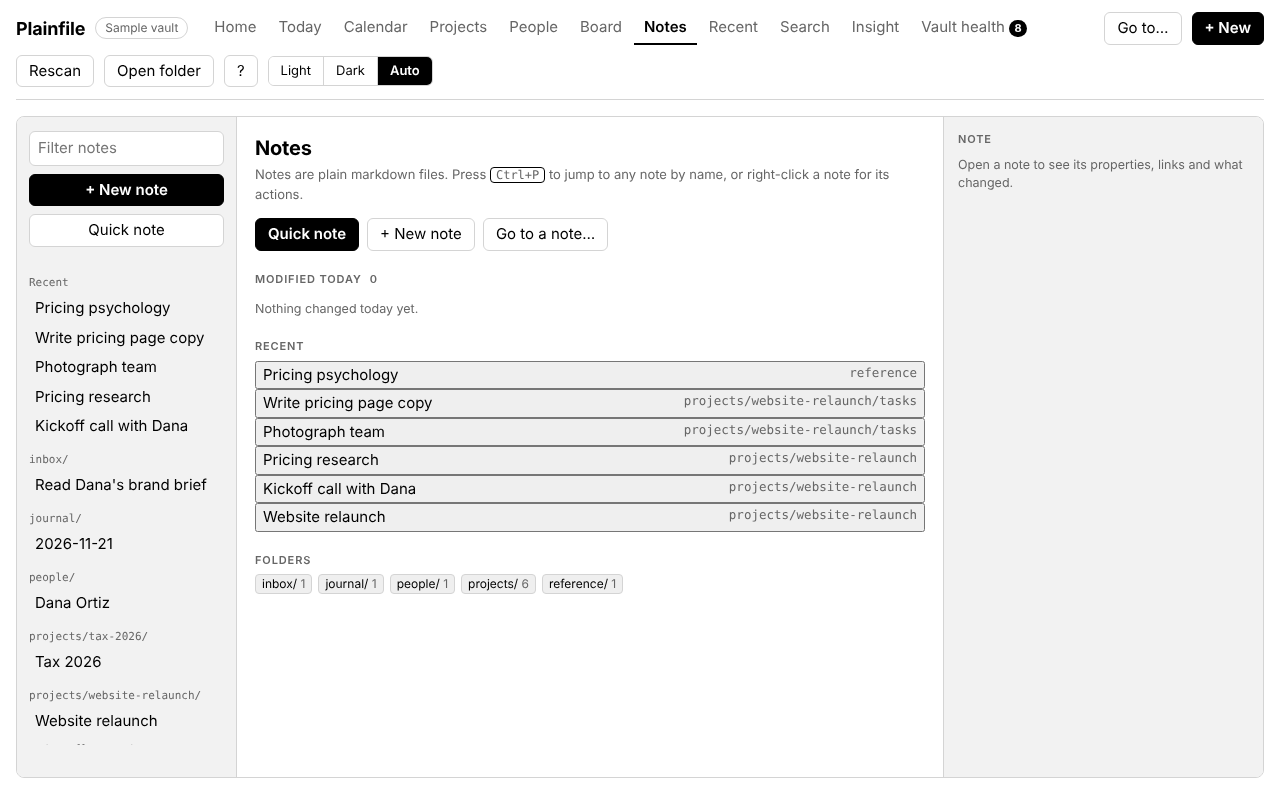
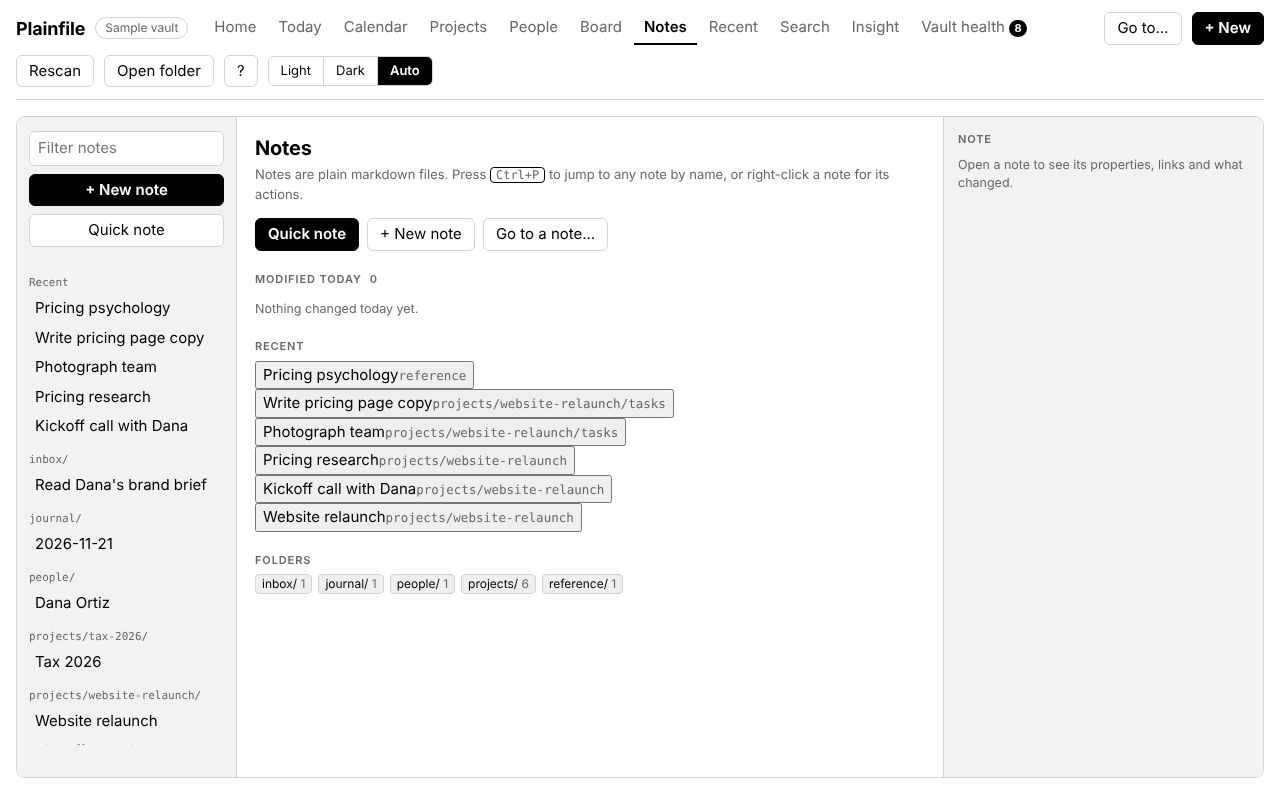
Add What is new by version in the footer, tidy unused code, document the approach (0.46.1)
Claude-Session: https://claude.ai/code/session_01R4FEdBw4QsP4joija6qyER

Changed region(s): [[0.3125, 0.4375, 0.7188, 0.6562]]

diff --git a/web/app.css b/web/app.css
@@ -459,8 +459,6 @@ progress:indeterminate { background: repeating-linear-gradient(90deg, var(--fg) 
 .pal-item span { opacity: 0.7; overflow: hidden; text-overflow: ellipsis; white-space: nowrap; max-width: 55%; }
 .pal-item[aria-selected='true'], .pal-item:hover { background: var(--fg); color: var(--bg); }
 .notes-home { max-width: 52rem; }
-.home-list li { margin: 0; }
-.home-list .note-quick { display: flex; justify-content: space-between; gap: 12px; width: 100%; }
 .note-quick { font-weight: 400; }
 kbd { border: 1px solid var(--fg); border-radius: 4px; padding: 0 5px; font: 12px var(--mono); }
 
@@ -623,7 +621,6 @@ kbd { border: 1px solid var(--fg); border-radius: 4px; padding: 0 5px; font: 12p
 .home-rows li { margin: 0; }
 .home-rows .note-quick { display: flex; justify-content: space-between; gap: 10px; width: 100%; }
 .home-log { margin-top: 8px; }
-.week { display: grid; grid-template-columns: repeat(7, 1fr); gap: 4px; align-items: end; height: 96px; margin: 0 0 10px; }
 .wday { display: flex; flex-direction: column; justify-content: flex-end; align-items: center; height: 100%; font-size: 11px; position: relative; }
 .wday i { display: block; width: 100%; background: var(--fg); border-radius: 3px 3px 0 0; min-height: 2px; margin-bottom: 2px; }
 .wday b { font-size: 12px; }
@@ -743,3 +740,6 @@ kbd { border: 1px solid var(--fg); border-radius: 4px; padding: 0 5px; font: 12p
 .cm-mermaid { display: block; margin: 6px 0 12px; padding: 10px; border: 1px solid var(--line); border-radius: 6px; overflow-x: auto; text-align: center; color: var(--mute); font-size: 13px; }
 .cm-mermaid svg { max-width: 100%; height: auto; }
 .cm-mermaid-err { text-align: left; font-family: var(--mono); }
+.changelog { max-width: 70ch; }
+.changelog h2:not(.title) { font-size: 16px; margin: 22px 0 4px; padding-top: 12px; border-top: 1px solid var(--line); }
+.changelog h3 { font-size: 12px; text-transform: uppercase; letter-spacing: 0.05em; color: var(--mute); margin: 10px 0 2px; }

diff --git a/web/project.ts b/web/project.ts
@@ -1,11 +1,10 @@
 import { fmtDate, localDateOf } from '../src/dates';
-import { dirname } from '../src/index';
-import { listProjects, projectDashboard } from '../src/projects';
+import { listProjects } from '../src/projects';
 import { portfolio } from '../src/hub';
 import * as hub from './hub';
 import { openTemplate } from './newmenu';
-import { render, justDone, state, today } from './store';
-import { logHtml, openTaskRow, row, toggleTask } from './tasks';
+import { render, state, today } from './store';
+import { openTaskRow, toggleTask } from './tasks';
 import { esc } from './util';
 
 /** The Projects screen: every project as a card, and for one project a dashboard of everything that belongs to it. */
@@ -70,10 +69,6 @@ function overview(): string {
     `<span class="pnum" aria-hidden="true">${p.number ?? '–'}</span><span class="ptitle">${esc(p.title)}</span><span class="pprev">${esc(p.preview) || '&nbsp;'}</span>` +
     `<span class="chips"><span class="chip">${p.openTasks} open task${p.openTasks === 1 ? '' : 's'}</span>${p.followups ? `<span class="chip">${p.followups} follow-up${p.followups === 1 ? '' : 's'}</span>` : ''}${p.active ? '' : '<span class="chip quiet">inactive</span>'}</span></button></li>`;
   return `${h}<ul class="pgrid">${all.map(card).join('')}</ul>`;
-}
-
-function section(title: string, count: number | string, body: string): string {
-  return `<section class="psec"><h3>${esc(title)} <span class="n">${count}</span></h3>${body}</section>`;
 }
 
 export function html(): string {

diff --git a/test/home.test.ts b/test/home.test.ts
@@ -1,5 +1,5 @@
 import { describe, expect, it } from 'vitest';
-import { daysSince, fileItem, finish, pickUp, reschedule, slipped, triage, undated, waitingOn, weekAhead } from '../src/home';
+import { daysSince, fileItem, finish, reschedule, slipped, triage, undated, waitingOn, weekAhead } from '../src/home';
 import { VaultIndex } from '../src/index';
 import { MemoryStorage } from '../src/memory-storage';
 
@@ -39,15 +39,6 @@ describe('Home helpers', () => {
     expect(undated(index).map((t) => t.item.title).sort()).toEqual(['A loose line', 'No date inline', 'Waiting thing']);
     expect(daysSince('2026-11-10', TODAY)).toBe(11);
     expect(daysSince(undefined, TODAY)).toBeUndefined();
-  });
-
-  it('pickUp lists recently changed notes and leaves out task notes', async () => {
-    const { index, store } = await setup();
-    store.external('projects/site/index.md', FILES['projects/site/index.md']! + '\nmore');
-    await index.scan();
-    const p = pickUp(index, 3).map((n) => n.path);
-    expect(p[0]).toBe('projects/site/index.md');
-    expect(p.some((x) => x.startsWith('tasks/'))).toBe(false);
   });
 
   it('fileItem changes only the project and tags, and nothing else in the note', async () => {

diff --git a/web/main.ts b/web/main.ts
@@ -4,6 +4,7 @@ import * as calendarScreen from './calendar';
 import * as cloudUi from './cloud';
 import * as explore from './explore';
 import * as guide from './guide';
+import * as changelogScreen from './changelog';
 import * as health from './health';
 import * as homeScreen from './home';
 import * as reviewScreen from './review';
@@ -116,7 +117,7 @@ function footer(): string {
   return (
     '<footer class="foot">' +
     `<span class="mono">Plainfile v${esc(__APP_VERSION__)}</span>` +
-    `<a href="${REPO}/blob/main/CHANGELOG.md" target="_blank" rel="noopener noreferrer">What is new</a>` +
+    '<button class="link" data-nav="changelog">What is new</button>' +
     `<a href="${REPO}" target="_blank" rel="noopener noreferrer">GitHub</a>` +
     (state.index ? '<button class="link" data-nav="guide">Cheat sheet</button>' : '') +
     '</footer>'
@@ -239,6 +240,9 @@ function shell(): string {
       break;
     case 'guide':
       h += guide.html();
+      break;
+    case 'changelog':
+      h += changelogScreen.html();
       break;
     case 'explore':
       h += explore.html();

diff --git a/web/store.ts b/web/store.ts
@@ -8,13 +8,13 @@ import { listProjects, type Project } from '../src/projects';
 import { findProject, parseQuickLine, type QuickLine } from '../src/quickline';
 import type { VaultStorage } from '../src/storage';
 import { loadTemplates, type Template } from '../src/templates';
-import { StaleError, type ChangeResult } from '../src/writeback';
+import { StaleError } from '../src/writeback';
 import { hasPermission, loadHandle, saveHandle } from './handle-store';
 import { browserCache } from './index-cache';
 
 export const SAMPLE_DAY = '2026-11-21';
 
-export type ScreenId = 'home' | 'review' | 'insight' | 'recent' | 'today' | 'calendar' | 'people' | 'projects' | 'board' | 'notes' | 'explore' | 'search' | 'health' | 'rename' | 'guide';
+export type ScreenId = 'home' | 'review' | 'insight' | 'recent' | 'today' | 'calendar' | 'people' | 'projects' | 'board' | 'notes' | 'explore' | 'search' | 'health' | 'rename' | 'guide' | 'changelog';
 export type TodayViewId = 'today' | 'upcoming' | 'inbox' | 'waiting' | 'all' | 'followups' | 'projects';
 
 export type Modal =

diff --git a/tests/e2e/changelog.spec.ts b/tests/e2e/changelog.spec.ts
@@ -1,0 +1,15 @@
+import { expect, test } from '@playwright/test';
+import { openVault } from './helpers';
+
+test('the footer opens What is new, by version without dates, and links to GitHub', async ({ page }) => {
+  await page.goto('/');
+  await openVault(page, { 'a.md': '# A\n' });
+  const foot = page.locator('.foot');
+  await expect(foot.getByRole('link', { name: 'GitHub' })).toHaveAttribute('target', '_blank');
+  await foot.getByRole('button', { name: 'What is new' }).click();
+  await expect(page.locator('.title')).toHaveText('What is new');
+  await expect(page.locator('.changelog h2, .changelog h1').nth(1)).toContainText(/^\d+\.\d+\.\d+$/);
+  expect(await page.locator('.changelog h2:not(.title), .changelog h1').allInnerTexts()).not.toContain(expect.stringMatching(/\d{4}-\d{2}-\d{2}/));
+  await expect(page.locator('.changelog a[href*="silverbullet"]')).toHaveAttribute('target', '_blank');
+  await expect(page.locator('.changelog a', { hasText: 'Full change log on GitHub' })).toHaveAttribute('target', '_blank');
+});

diff --git a/web/changelog.ts b/web/changelog.ts
@@ -1,0 +1,14 @@
+import { changelogByVersion } from '../src/changelog';
+import { toHtml } from '../src/render';
+
+const REPO = 'https://github.com/adambeltz2/Simple-Productivity';
+
+/** What is new: every version, newest first, without dates. The full file with dates is on GitHub. */
+export function html(): string {
+  return (
+    '<div class="home changelog"><h2 class="title">What is new</h2>' +
+    `<p class="meta">Plainfile v${__APP_VERSION__}. Changes by version. <a href="${REPO}/blob/main/CHANGELOG.md" target="_blank" rel="noopener noreferrer">Full change log on GitHub</a></p>` +
+    '<p class="small muted">Inspired by <a href="https://silverbullet.md/" target="_blank" rel="noopener noreferrer">SilverBullet</a> and <a href="https://obsidian.md/" target="_blank" rel="noopener noreferrer">Obsidian</a>, with a different approach: plain files, tasks and projects as first-class views, nothing to install.</p>' +
+    `<div class="prose">${toHtml(changelogByVersion(__CHANGELOG__))}</div></div>`
+  );
+}

diff --git a/test/changelog.test.ts b/test/changelog.test.ts
@@ -1,0 +1,19 @@
+import { readFileSync } from 'node:fs';
+import { describe, expect, it } from 'vitest';
+import { changelogByVersion } from '../src/changelog';
+
+describe('changelogByVersion', () => {
+  it('lists versions without dates and drops the introduction', () => {
+    const out = changelogByVersion('# Changelog\n\nIntro text.\n\n## [0.2.0] - 2026-11-22\n\n### Added\n- B\n\n## [0.1.0] - 2026-11-01\n- A\n');
+    expect(out).toBe('## 0.2.0\n\n### Added\n- B\n\n## 0.1.0\n- A\n');
+  });
+  it('leaves no date in the real change log', () => {
+    const out = changelogByVersion(readFileSync('CHANGELOG.md', 'utf8'));
+    expect(out).not.toMatch(/^## .*\d{4}-\d{2}-\d{2}/m);
+    expect(out.startsWith('## ')).toBe(true);
+  });
+  it('has an entry for the version being shipped', () => {
+    const v = JSON.parse(readFileSync('package.json', 'utf8')).version as string;
+    expect(changelogByVersion(readFileSync('CHANGELOG.md', 'utf8'))).toContain(`## ${v}\n`);
+  });
+});

diff --git a/src/home.ts b/src/home.ts
@@ -93,14 +93,6 @@ export function undated(index: VaultIndex): HubTask[] {
   return allTasks(index).filter((t) => t.status !== 'done' && !t.due);
 }
 
-/** (Home no longer shows this; the Recent screen lists every note.) Where you left off: the notes changed most recently, leaving out task notes and the generated inbox file. */
-export function pickUp(index: VaultIndex, limit = 5): Note[] {
-  return [...index.notes.values()]
-    .filter((n) => !isTaskNote(n))
-    .sort((a, b) => b.mtime - a.mtime || a.path.localeCompare(b.path))
-    .slice(0, limit);
-}
-
 /** File a note or task note: add it to a project and add tags. Only those two fields change. */
 export async function fileItem(storage: VaultStorage, index: VaultIndex, path: string, opts: { project?: string; tags?: string[] }): Promise<ChangeResult> {
   const stat = await storage.stat(path);

diff --git a/src/changelog.ts b/src/changelog.ts
@@ -1,0 +1,10 @@
+/**
+ * The change log as the app shows it: by version, newest first, with no dates. The file `CHANGELOG.md` keeps its
+ * dates for GitHub; this takes them out of the headings (`## [0.46.0] - 2026-11-22` becomes `## 0.46.0`) and
+ * drops the introduction, so the list reads as a history of versions.
+ */
+export function changelogByVersion(md: string): string {
+  const first = md.search(/^## \[/m);
+  const body = first < 0 ? md : md.slice(first);
+  return body.replace(/^## \[([^\]]+)\](?:[ \t]+-[ \t]+\d{4}-\d{2}-\d{2})?[ \t]*$/gm, '## $1');
+}

diff --git a/test/templates.test.ts b/test/templates.test.ts
@@ -135,7 +135,7 @@ describe('task files', () => {
   });
 
   it('read people from the frontmatter as @names, like an inline task', async () => {
-    const { store, index } = await setup({ 'tasks/a.md': '---\nstatus: todo\npeople: [Dana, "Sam Lee"]\ncreated: 2026-11-20\n---\n' });
+    const { index } = await setup({ 'tasks/a.md': '---\nstatus: todo\npeople: [Dana, "Sam Lee"]\ncreated: 2026-11-20\n---\n' });
     expect(index.tasks()[0]).toMatchObject({ who: ['@dana', '@sam-lee'], created: '2026-11-20' });
   });
 });

diff --git a/web/globals.d.ts b/web/globals.d.ts
@@ -2,6 +2,8 @@
 declare const __SAMPLE_VAULT__: Record<string, string>;
 /** The version in package.json, injected at build time. */
 declare const __APP_VERSION__: string;
+/** CHANGELOG.md, injected at build time for the What is new screen. */
+declare const __CHANGELOG__: string;
 /** The Dropbox app key (public by design with PKCE), from the DROPBOX_APP_KEY environment variable at build time. May be empty. */
 declare const __DROPBOX_APP_KEY__: string;
 
